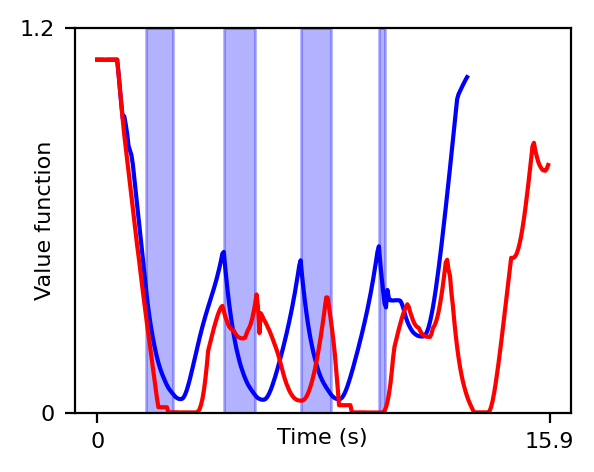
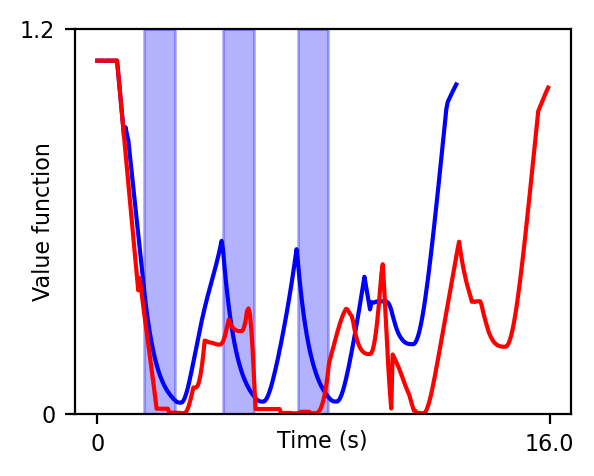
rollback a few steps

Changed region(s): [[0.0606, 0.0593, 0.9697, 0.9492], [0.0606, 0.2966, 0.0909, 0.6525], [0.0303, 0.0297, 0.0909, 0.089]]

diff --git a/simulators/policy/ilqr_filter_policy.py b/simulators/policy/ilqr_filter_policy.py
@@ -9,8 +9,8 @@ import numpy as np
 from .ilqr_reachavoid_policy import iLQRReachAvoid
 from .ilqr_policy import iLQR
 from .solver_utils import barrier_filter_linear, barrier_filter_quadratic, bicycle_linear_task_policy
-from simulators.dynamics.base_dynamics import BaseDynamics
-from simulators.costs.base_margin import BaseMargin
+from ..dynamics.base_dynamics import BaseDynamics
+from ..costs.base_margin import BaseMargin
 
 class iLQRSafetyFilter(iLQR):
 
@@ -156,7 +156,7 @@ class iLQRSafetyFilter(iLQR):
 
             solver_initial = np.zeros((2,))
             if prev_sol is not None:
-                solver_initial = np.array(prev_action - control_cbf_cand)
+                solver_initial = prev_sol['qcqp_initialize']
 
             # Define initial state and initial performance policy
             initial_state_jnp = jnp.array(initial_state[:, np.newaxis])
@@ -215,7 +215,7 @@ class iLQRSafetyFilter(iLQR):
 
                 # Restart from current point and run again
                 control_cbf_cand = np.array(filtered_control)
-                solver_initial = np.array(prev_action - control_cbf_cand)
+                #solver_initial = np.array(prev_action - control_cbf_cand)
 
                 state_imaginary, control_cbf_cand = self.dyn.integrate_forward(
                     state=initial_state, control=control_cbf_cand

diff --git a/simulators/dynamics/bicycle5d.py b/simulators/dynamics/bicycle5d.py
@@ -116,8 +116,7 @@ class Bicycle5D(BaseDynamics):
                          obs[2] / (1e-6 + self.wheelbase * jnp.cos(obs[4])**2)],
                         [0, 0, 0, 0, 0]])
 
-        Ad = jnp.eye(self.dim_x) + Ac * self.dt + \
-            0.5 * Ac @ Ac * self.dt * self.dt
+        Ad = jnp.eye(self.dim_x) + Ac * self.dt + Ac @ Ac * self.dt * self.dt
 
         return Ad
 
@@ -175,8 +174,7 @@ class Bicycle5D(BaseDynamics):
                        [0, 0],
                        [0, 1]])
 
-        Ad = jnp.eye(self.dim_x) + Ac * self.dt + \
-            0.5 * Ac @ Ac * self.dt * self.dt
+        Ad = jnp.eye(self.dim_x) + Ac * self.dt + Ac @ Ac * self.dt * self.dt
         Bd = self.dt * Bc
 
         return Ad, Bd